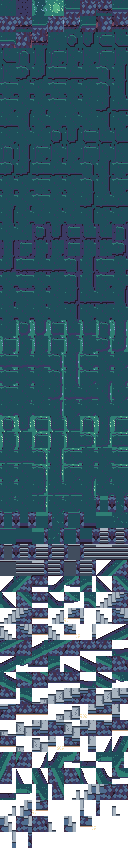
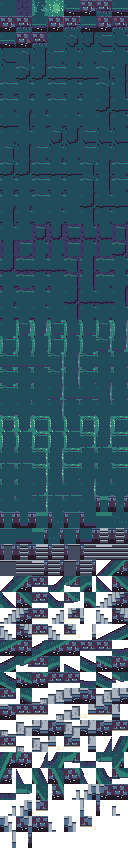
feat(cliffs): bespoke reef bio-rock wall + ground-transition review demo
Commits the already-authored coralRockWallFace (materials.ts) and REEF
face-ramp (palette.ts) bespoke reef wall, bakes it into cliffReef.png,
and re-pins its sha in determinism.test.ts. Desert (cliff.png) and ice
(cliffIce.png) sheets are byte-identical, confirmed unchanged.

Also adds a ground-transition demo to the cliff review scene: three
small organic reefSilt/reefWater/glowMoss patches inside the reefFloor
field, each seam autotiled via the reefFloor<Base> pairing blob sets
(mirrors the existing sand-ledge/plateau-top blob code), plus a zoomed
reef-transitions-crop.png export. Biome-guarded to the reef preset only
— desert/ice scenes render unchanged.

diff --git a/tools/pipeline/src/cliffs/materials.ts b/tools/pipeline/src/cliffs/materials.ts
@@ -54,8 +54,8 @@
  * pixel identical to the prototype (`:304-309`, `:318-319`).
  */
 import { PixelGrid } from "../grid";
-import { clamp, h2, partition } from "./noise";
-import { REEF, ROCK, shade, type Ramp } from "./palette";
+import { clamp, fbm, h2, n1, partition } from "./noise";
+import { ROCK, shade, type Ramp } from "./palette";
 import type { PaletteName } from "../../../../src/shared/palette";
 
 const T = 16;
@@ -272,6 +272,109 @@ export function glacierWallFace(params: WallParams, seed: number): PixelGrid {
   return grid;
 }
 
+/**
+ * Bespoke reef BIO-ROCK face (Task R3b) — replaces the `blockWallFace`
+ * REEF-recolor placeholder, which read as generic stacked bricks rather
+ * than the shipped reef zone's drowned bio-rock.
+ *
+ * Model: one **course of bio-rock strata per tile**, the same anatomy as
+ * tileset7's `reefWall` so the cliff reads as the very same material:
+ *
+ *   - a dark **plum** body with sparse **mauve** rises at the tiling
+ *     `fbm`'s high extreme (organic rock grain, not brickwork);
+ *   - a lightly broken **slate** lit crest along the top of the course
+ *     (the analogue of `reefWall`'s slate top line);
+ *   - `reefWall`'s four crisp **slate** block plates at their shipped
+ *     spots (x jittered ±1 per seed), each with a single **skyBlue** lit
+ *     top-left corner;
+ *   - a **mauve** mineral vein (`reefWall`'s rust vein, transposed into
+ *     the cool face-ramp family — warm coral colours are decor, not wall);
+ *   - an **ink** shadowed lower band whose upper edge wobbles per column
+ *     (tiling 1D noise) behind an indigo/ink dither — the deep
+ *     under-shadow of each stratum;
+ *   - sparse **mint** and **skyBlue** bio-luminescent beads crusting the
+ *     shadow line and the body cracks.
+ *
+ * Palette-locked to the REEF face-ramp family ONLY — mint / skyBlue /
+ * slate / mauve / plum / indigo / ink — because `cliffFace` re-quantizes
+ * every face pixel through `REEF.indexOf(...)`, and the diagonal flight
+ * bodies reuse this exact grid; any colour outside the ramp would flatten
+ * in the round-trip. Deterministic (`h2`/`fbm`/`n1` only), fully opaque,
+ * and seamless: all geometry wraps mod 16 in BOTH axes (cliff faces tile
+ * side by side, and the flight bodies sample this tile toroidally).
+ */
+export function coralRockWallFace(params: WallParams, seed: number): PixelGrid {
+  void params; // organic strata have no use for the block-wall knobs
+  const grid = new PixelGrid(T, T);
+  const w = (v: number): number => ((v % T) + T) % T;
+  const wpx = (x: number, y: number, c: PaletteName): void => grid.px(w(x), w(y), c);
+
+  // 1) Shadow-band profile: per-column top of the ink under-shadow, 10..12,
+  //    from tiling 1D noise so the left/right edges agree.
+  const bandTop: number[] = [];
+  for (let x = 0; x < T; x++) bandTop.push(10 + Math.round(n1(x, seed + 7) * 2));
+
+  // 2) Body: plum mottled to mauve/indigo by tiling fbm, then the band.
+  for (let y = 0; y < T; y++) {
+    for (let x = 0; x < T; x++) {
+      // Mostly-plum body (reefWall's is near-flat plum): mauve rises only
+      // at the fbm's high extreme, so the mottle reads as sparse organic
+      // grain instead of a loud repeating blob motif. No indigo mottle —
+      // the low-frequency octave pools it into a fake stratum.
+      const b = fbm(x, y, seed);
+      let c: PaletteName = b > 0.72 ? "mauve" : "plum";
+      if (y >= bandTop[x]) {
+        // Dissolve into the ink under-shadow: the first band row is an
+        // indigo/ink dither so the edge reads eaten, not ruled, then ink.
+        c = y === bandTop[x] ? (h2(x, 1, seed + 13) > 0.55 ? "indigo" : "ink") : "ink";
+      } else if (y === 0 && h2(x, 3, seed + 29) > 0.15) {
+        c = "slate"; // lit crest along the course top (reefWall's slate line)
+      }
+      grid.px(x, y, c);
+    }
+  }
+
+  // 3) Slate block plates — reefWall's facet recipe verbatim: the same four
+  //    crisp rects at the same spots, each with a single skyBlue lit
+  //    top-left corner. Only the x position jitters (±1, per seed) so
+  //    variant seeds shift the facet rhythm without ever merging plates.
+  const PLATES = [
+    { x: 2, y: 2, w: 4, h: 3 },
+    { x: 9, y: 2, w: 4, h: 4 },
+    { x: 3, y: 7, w: 5, h: 3 },
+    { x: 10, y: 8, w: 4, h: 3 },
+  ] as const;
+  PLATES.forEach((pl, i) => {
+    const jx = Math.round((h2(i, 51, seed) - 0.5) * 2); // -1..1
+    for (let dy = 0; dy < pl.h; dy++) {
+      for (let dx = 0; dx < pl.w; dx++) wpx(pl.x + jx + dx, pl.y + dy, "slate");
+    }
+    wpx(pl.x + jx, pl.y, "skyBlue"); // lit corner
+  });
+
+  // 4) Mauve mineral vein — reefWall's rust vein, transposed into the cool
+  //    face-ramp family (warm coral colours are decor, not wall).
+  for (const [vx, vy] of [[7, 3], [8, 4], [12, 6], [5, 10]] as const) {
+    wpx(vx + Math.round((h2(vx, 97, seed) - 0.5) * 2), vy, "mauve");
+  }
+
+  // 5) Bio-luminescent beads crusting the cracks: a few mint/skyBlue points,
+  //    biased into the shadowed lower half where the glow pops.
+  for (let i = 0; i < 4; i++) {
+    const bx = Math.floor(h2(i, 61, seed) * T);
+    const by = i < 2 ? 5 + Math.floor(h2(i, 67, seed) * 5) : 11 + Math.floor(h2(i, 67, seed) * 4);
+    wpx(bx, by, i % 2 === 0 ? "mint" : "skyBlue");
+  }
+  // one 2px glow pair on the shadow line (tileset7's glint motif)
+  {
+    const gx = Math.floor(h2(9, 71, seed) * T);
+    wpx(gx, 12, "skyBlue");
+    wpx(gx + 1, 12, "mint");
+  }
+
+  return grid;
+}
+
 /** A fully opaque, palette-locked 16x16 wall-face tile for `material`. */
 export function wallFace(material: MaterialKey, params: WallParams, seed: number): PixelGrid {
   switch (material) {
@@ -280,10 +383,6 @@ export function wallFace(material: MaterialKey, params: WallParams, seed: number
     case "glacier":
       return glacierWallFace(params, seed);
     case "coralRock":
-      // Placeholder (Task R1, re-palette R3a) — recolor of blockWallFace on
-      // the REEF ramp; the bespoke coral face lands in the next task.
-      // Renamed from `reefStone` to avoid clashing with tileset7's own
-      // (unrelated) `reefStone` stepping-stone tile.
-      return blockWallFace(REEF, params, seed);
+      return coralRockWallFace(params, seed);
   }
 }

diff --git a/tools/pipeline/src/cliffs/palette.ts b/tools/pipeline/src/cliffs/palette.ts
@@ -22,13 +22,16 @@ export const ROCK: Ramp = ["stoneLit", "stone", "stoneDark", "stoneDark", "stone
 /** Glacial ice cliff ramp: white lit facets → deep indigo shadow. */
 export const ICE: Ramp = ["white", "skyBlue", "slate", "slate", "indigo", "indigo", "indigo", "ink"];
 
-/** Reef coral cliff ramp (R3a re-palette, matches the shipped reef zone's
- *  `reefWall`: plum bio-rock body with slate-lit facets and a skyBlue lit
- *  edge, deep indigo shadow. The bespoke coral-textured face itself lands
- *  in the next task — this ramp just fixes the placeholder's colours to
- *  harmonize with tileset7's reef instead of the old monochrome-green
- *  guess.) */
-export const REEF: Ramp = ["skyBlue", "slate", "plum", "plum", "mauve", "indigo", "indigo", "ink"];
+/** Reef bio-rock FACE ramp (R3b). This is purely the shading round-trip
+ *  ramp for the bespoke `coralRockWallFace` (materials.ts): `cliffFace`
+ *  re-quantizes every wall pixel through `REEF.indexOf(name)` and shifts
+ *  along it, so it must (a) contain every colour the bespoke face emits
+ *  and (b) run light→dark in true brightness order so darken/lighten
+ *  shifts stay physical. mint (biolight, brightest) → skyBlue (lit
+ *  corners) → slate (plates) → mauve (mid-tone) → plum (body) → indigo
+ *  (x2, shadow buffer) → ink (deep shadow), matching tileset7's shipped
+ *  `reefWall` material family. */
+export const REEF: Ramp = ["mint", "skyBlue", "slate", "mauve", "plum", "indigo", "indigo", "ink"];
 
 export type TerrainKey =
   | "sand"

diff --git a/tests/pipeline/determinism.test.ts b/tests/pipeline/determinism.test.ts
@@ -418,10 +418,16 @@ describe("cliff tileset byte-stability", () => {
   // recipes were split out of one shared placeholder branch into distinct,
   // palette-locked recipes per ground. Desert (`cliff`) and ice (`cliffIce`)
   // are untouched by this change — same hashes as before.
+  //
+  // cliffReef re-pinned again for M2 Task R3c: `coralRockWallFace`
+  // (materials.ts) replaces the tier-2 `blockWallFace` placeholder with a
+  // bespoke plum bio-rock wall face (the REEF face-ramp in palette.ts).
+  // Same 274 named tile slots, no reordering — only the reef wall's face
+  // pixels changed. Desert (`cliff`) and ice (`cliffIce`) are untouched.
   const FROZEN = {
[4 lines of base64/hex data omitted]
   } as const;
 
   it("cliff.png encodes to its committed bytes", () => {